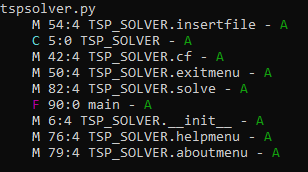
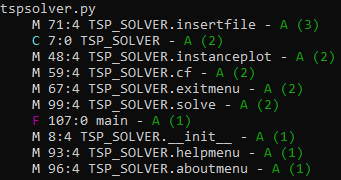
doc

Changed region(s): [[0.0, 0.0, 0.9351, 0.9884], [0.8182, 0.2907, 0.9935, 0.3488], [0.7013, 0.5523, 0.7305, 0.6105]]

diff --git a/local search solutions/README.md b/local search solutions/README.md
@@ -13,6 +13,11 @@
   * [TSP SOLVER](#TSP_SOLVER)
     * [TSP SOLVER KEYBINDS](#TSP_SOLVER_KEYBINDS)
     * [TSP SOLVER Current Version](#TSP_SOLVER_Current_Version)
+    * [TSP SOLVER Radon](#TSP_SOLVER_Radon)
+      * [TSP SOLVER Radon cc](#TSP_SOLVER_Radon_cc)
+      * [TSP SOLVER Radon hal](#TSP_SOLVER_Radon_hal)
+      * [TSP SOLVER Radon mi](#TSP_SOLVER_Radon_mi)
+      * [TSP SOLVER Radon raw](#TSP_SOLVER_Radon_raw)
   * [TSP SOLVER 2](#TSP_SOLVER_2)
     * [TSP_SOLVER_2_KEYBINDS](#TSP_SOLVER_2_KEYBINDS)
     * [TSP_SOLVER_2_Current_Version](#TSP_SOLVER_2_Current_Version)
@@ -54,6 +59,23 @@
 
 <p><img src ="images/tsp solver.png" title = "TSP Solver Version"/> </p>
 
+## TSP_SOLVER_Radon
+
+### TSP_SOLVER_Radon_cc
+
+<p><img src ="images/tspsolver radon cc.png" title = "TSP Solver Radon cc"/></p>
+
+### TSP_SOLVER_Radon_hal
+
+<p><img src ="images/tspsolver radon hal.png" title = "TSP Solver Radon hal"/></p>
+
+### TSP_SOLVER_Radon_mi
+
+<p><img src ="images/tspsolver radon mi.png" title = "TSP Solver Radon mi"/></p>
+
+### TSP_SOLVER_Radon_raw
+
+<p><img src ="images/tspsolver radon raw.png" title = "TSP Solver Radon mi"/></p>
 
 # TSP_SOLVER_2
 
